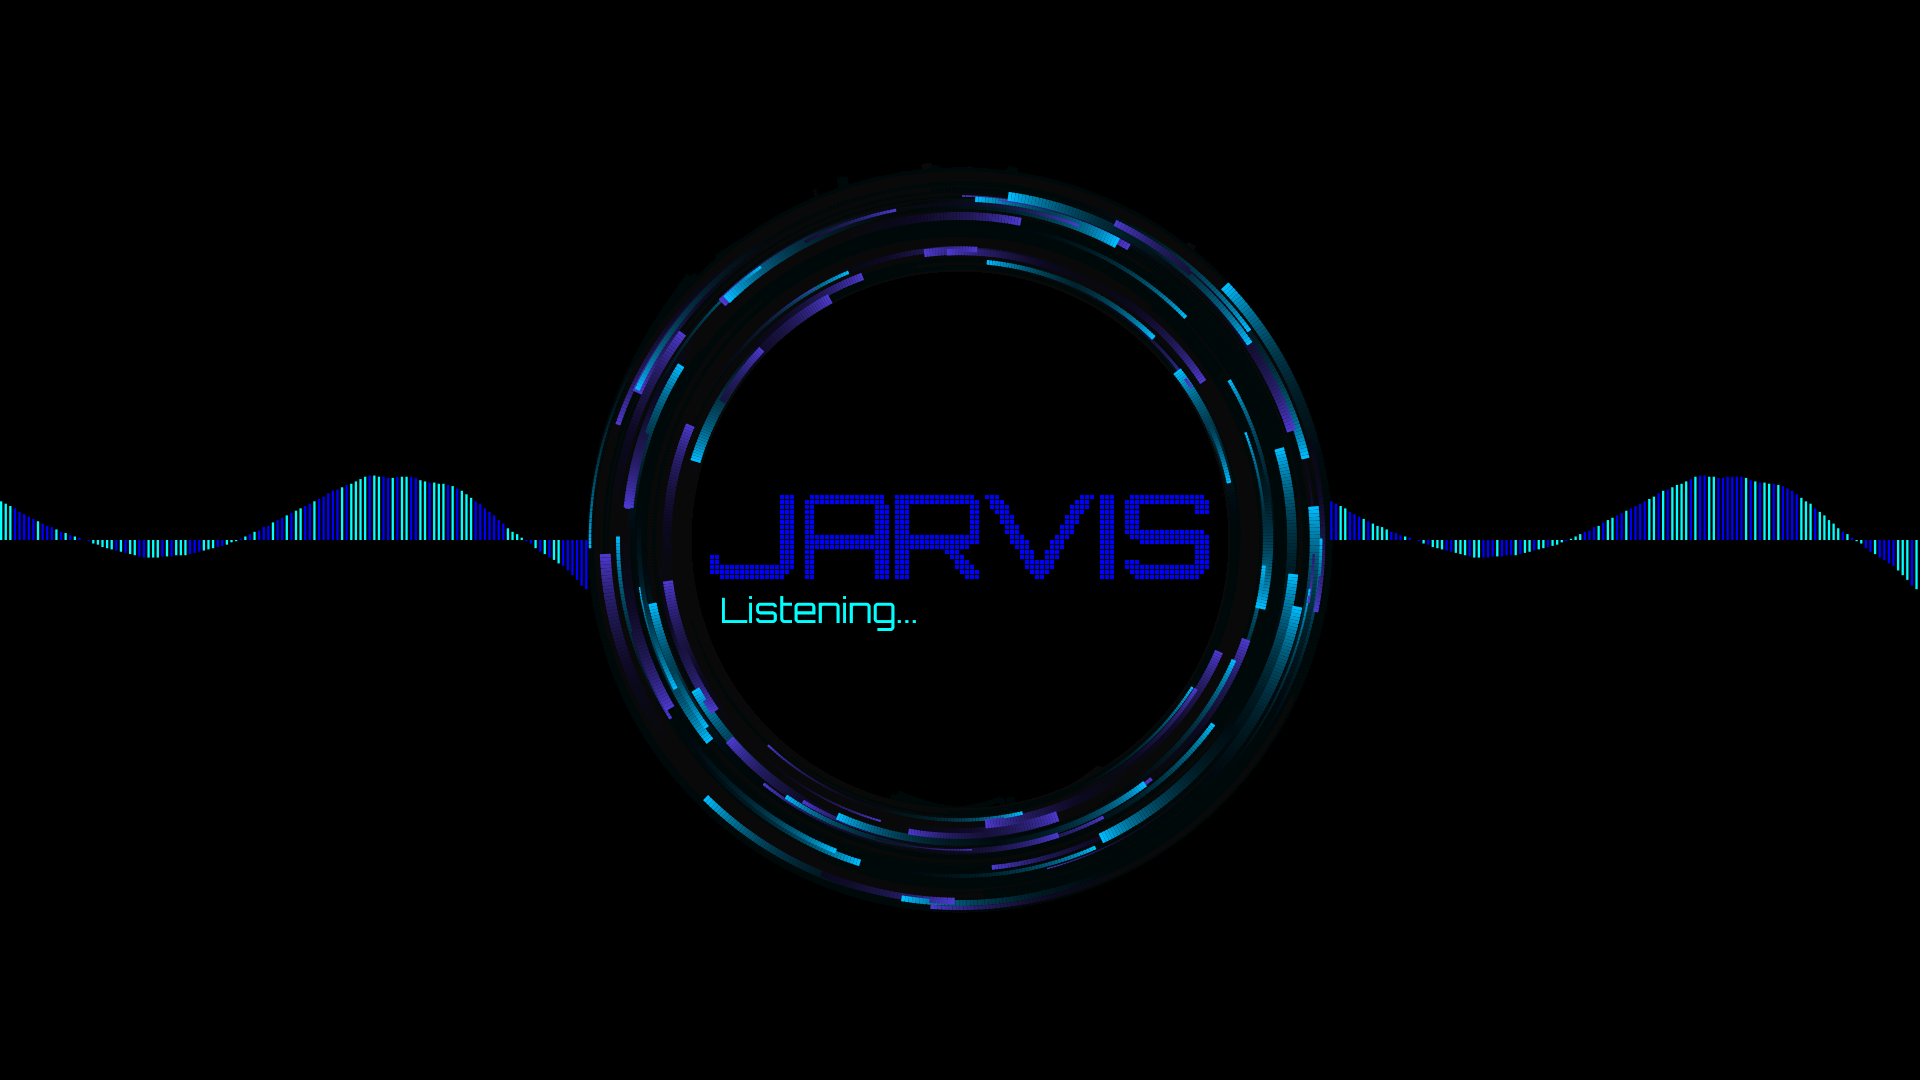
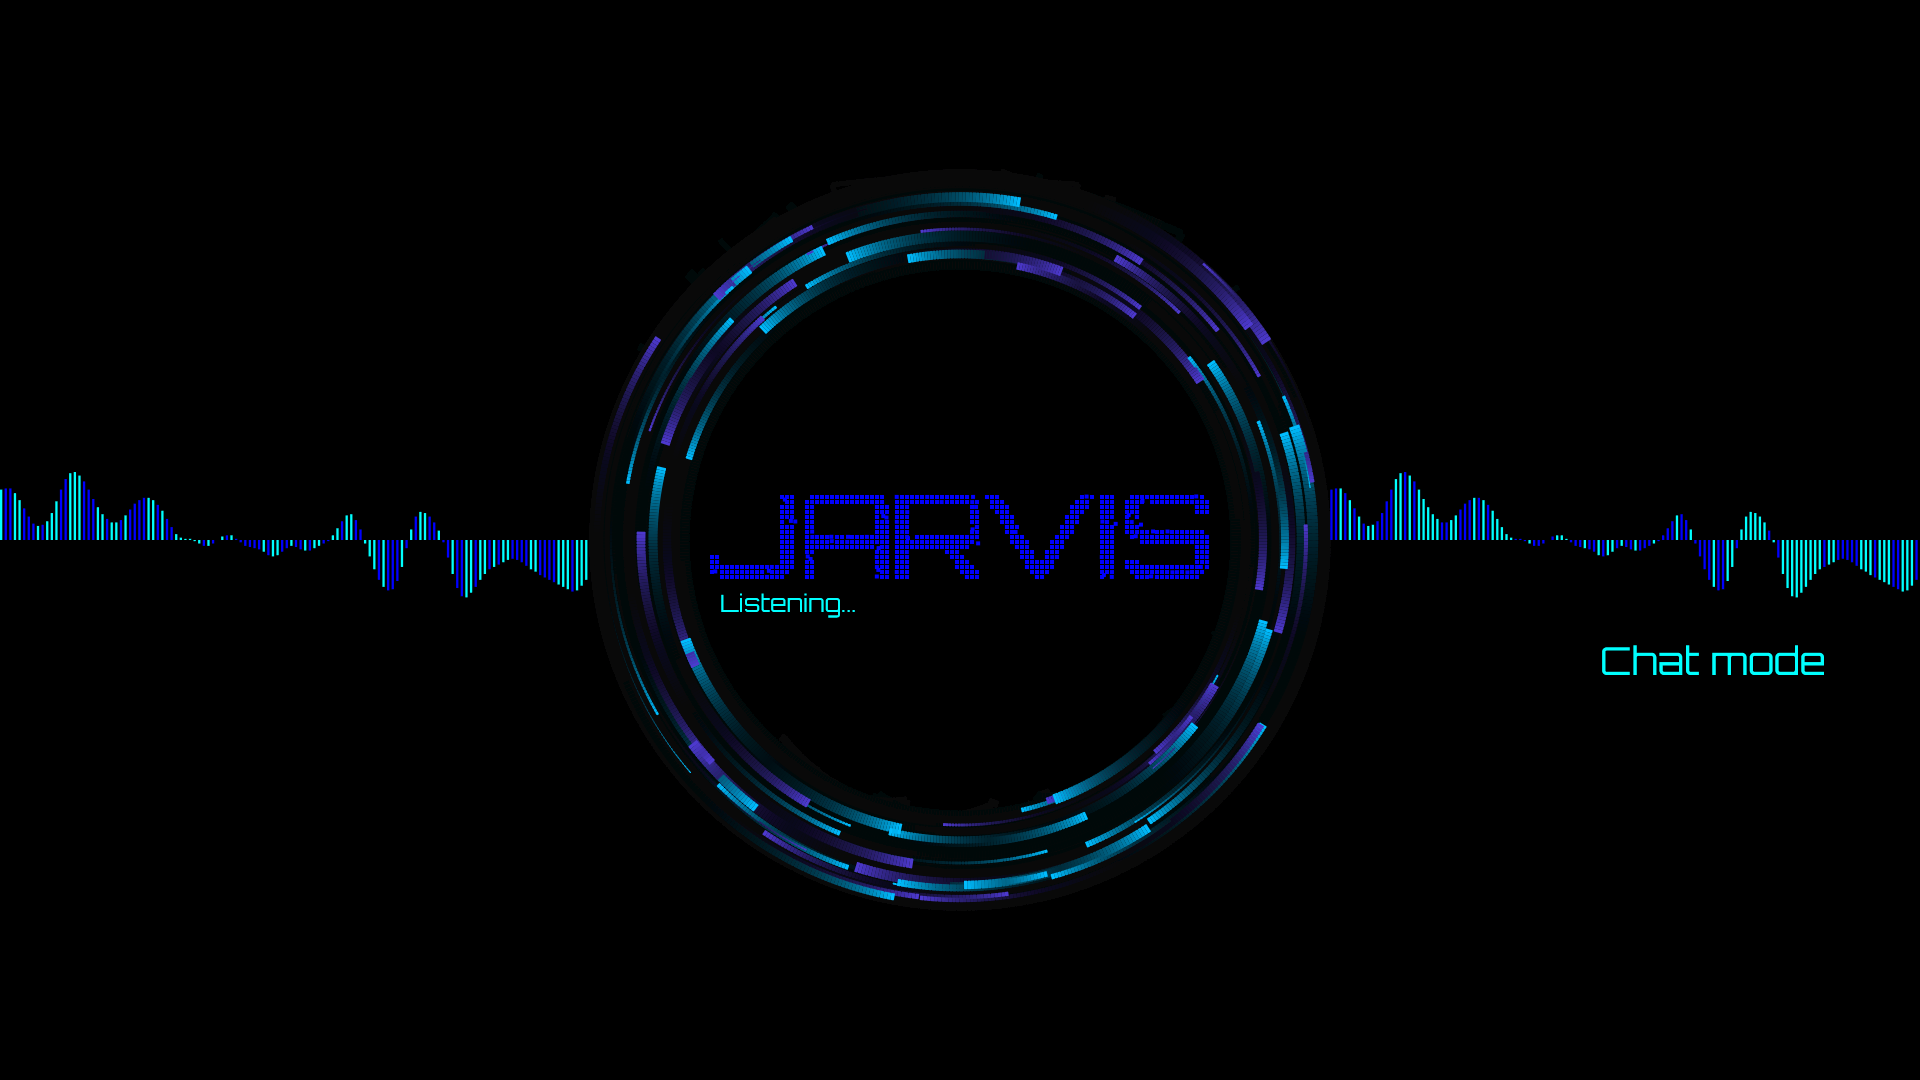
new commit

Changed region(s): [[0.0, 0.1528, 1.0, 0.8556], [0.8438, 0.5806, 0.9688, 0.6417]]

diff --git a/client/style_chat.css b/client/style_chat.css
@@ -4,7 +4,7 @@
   margin: 0;
   padding: 0;
   box-sizing: border-box;
-  font-family: "Orbitron", sans-serif;
+  font-family: "Ubuntu", sans-serif;
   color: aqua;
 }
 
@@ -14,8 +14,9 @@ body {
 
 #app {
   width: 100vw;
-  height: 100vh;
+  height: 96vh;
   background: black;
+  margin-top: 30px;
 
   display: flex;
   flex-direction: column;
@@ -114,7 +115,7 @@ body {
 form {
   width: 100%;
   max-width: 1280px;
-  margin: 20px auto;
+  margin: 10px auto;
   padding: 10px;
   background: black;
 
@@ -133,6 +134,7 @@ textarea {
   border-radius: 5px;
   border: none;
   outline: none;
+  font-family: 'Orbitron', sans-serif;
 }
 
 button {
@@ -145,4 +147,18 @@ button {
 form img {
   width: 30px;
   height: 30px;
+}
+
+#link {
+  position: absolute;
+  text-decoration: none;
+  color: aqua;
+  font-family: 'Orbitron', sans-serif;
+  text-align: center;
+  top: 10px;
+  left: 10px;
+}
+
+#link:hover {
+  color: blue;
 }

diff --git a/client/chat_mode.html b/client/chat_mode.html
@@ -5,18 +5,17 @@
     <link rel="icon" type="image/svg+xml" href="/favicon.ico" />
     <meta name="viewport" content="width=device-width, initial-scale=1.0" />
     <title>JARVIS-AI</title>
-    <link rel="stylesheet" href="style_text.css">
+    <link rel="stylesheet" href="style_chat.css">
   </head>
   <body>
     <div id="app">
       <div id="chat_container"></div>
-
       <form action="">
         <textarea name="prompt" id="" cols="1" rows="1" placeholder="Ask Me..."></textarea>
         <button type="submit"><img src="assets/send.svg" alt=""></button>
       </form>
     </div>
-
-    <script type="module" src="script_text.js"></script>
+    <a href="index.html" id="link">Move back to interactive mode</a>
+    <script type="module" src="script_chat.js"></script>
   </body>
 </html>

diff --git a/client/index.html b/client/index.html
@@ -19,7 +19,7 @@
   <canvas id="canvas3"></canvas>
   <canvas id="audio_canvas" ></canvas>
   <div id="text">Listening...</div>
-  <a href="text_mode.html" id="link">Text mode</a>
+  <a href="chat_mode.html" id="link">Chat mode</a>
 
   <script src="script_general.js"></script>
   <script src="script_microphone.js"></script>

diff --git a/README.md b/README.md
@@ -1,8 +1,11 @@
 # JARVIS
 <img src="./client/README/main.png">
+<img src="./client/README/main_text.png">
 
 JARVIS is an artificial intelligent interactive bot who recognizes human speech and gives answers to all his queries just like Chatgpt but more interactive. It can perform system automation tasks and browser automation too. The AI is made using CHATGPT API
 
+## Note
+Presently only the chat mode is functional and the program can chat with you in text mode only. Command mode will be updated soon
 
 ## Getting Started
 
